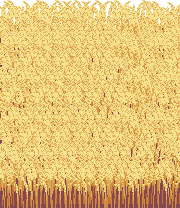
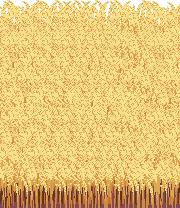
Add ground tile

diff --git a/lib/wheat_chunk.dart b/lib/wheat_chunk.dart
@@ -6,19 +6,36 @@ import 'package:another_harvester_game/map_object.dart';
 
 class WheatChunk {
   static final _paint = Paint();
+  static final additionalSize = Vector2(0.01, 0.01);
 
   final int size;
   final Vector2 position;
   final List<List<MapObject?>> mapObjects;
+  final Image groundImage;
 
   WheatChunk(
       {required this.size,
       required this.position,
+      required this.groundImage,
       MapObjectCreator? initialObjectCreator})
       : mapObjects = List.generate(size,
             (_) => List.generate(size, (__) => initialObjectCreator?.call()));
 
   void render(Canvas canvas) {
+    for (int i = 0; i < mapObjects.length; i++) {
+      for (int j = 0; j < mapObjects[i].length; j++) {
+        if (mapObjects[i][j] == null) {
+          canvas.drawImageRect(
+              groundImage,
+              Rect.fromLTWH(0, 0, groundImage.width.toDouble(),
+                  groundImage.height.toDouble()),
+              Rect.fromLTWH(position.x * size + i, position.y * size + j,
+                  1 + additionalSize.x, 1 + additionalSize.y),
+              _paint);
+        }
+      }
+    }
+
     for (int i = 0; i < mapObjects.length; i++) {
       for (int j = 0; j < mapObjects[i].length; j++) {
         if (mapObjects[i][j] == null) {
@@ -28,7 +45,6 @@ class WheatChunk {
         // TODO maybe drawAtlas is suitable here
 
         final mapObject = mapObjects[i][j]!;
-        final additionalSize = Vector2(0.01, 0.01);
         canvas.drawImageRect(
             mapObject.image,
             Rect.fromLTWH(0, 0, mapObject.image.width.toDouble(),

diff --git a/lib/harvester_game.dart b/lib/harvester_game.dart
@@ -49,6 +49,7 @@ class HarvesterGame extends Forge2DGame
   late final Sprite wheatSprite;
   late final Sprite haySprite;
   late final Sprite plusTimeSprite;
+  late final Sprite groundSprite;
 
   late final AudioPool _popSoundPool;
   late final SharedPreferences sharedPrefs;
@@ -76,6 +77,7 @@ class HarvesterGame extends Forge2DGame
     wheatSprite = await loadSprite('cute_wheat.png');
     haySprite = await loadSprite('hay.png');
     plusTimeSprite = await loadSprite('plus_time.png');
+    groundSprite = await loadSprite('ground_tile.png');
 
     sharedPrefs = await SharedPreferences.getInstance();
 

diff --git a/lib/wheat_field.dart b/lib/wheat_field.dart
@@ -49,6 +49,7 @@ class WheatField extends Component with HasGameRef<HarvesterGame> {
           chunksMap[chunkPos] = WheatChunk(
               size: chunkSize,
               position: chunkPos,
+              groundImage: gameRef.groundSprite.image,
               initialObjectCreator: initialObjectCreator);
 
           _spawnBoldersAndBonuses(chunksMap[chunkPos]!);
